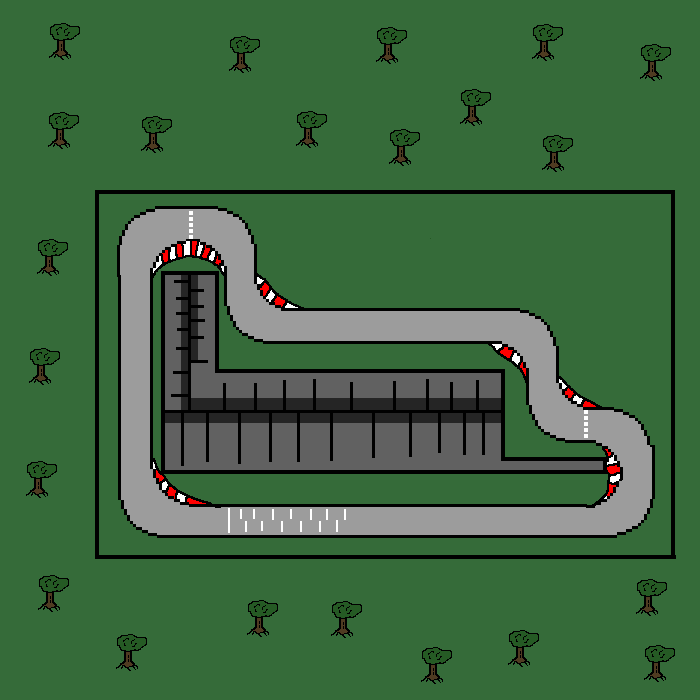
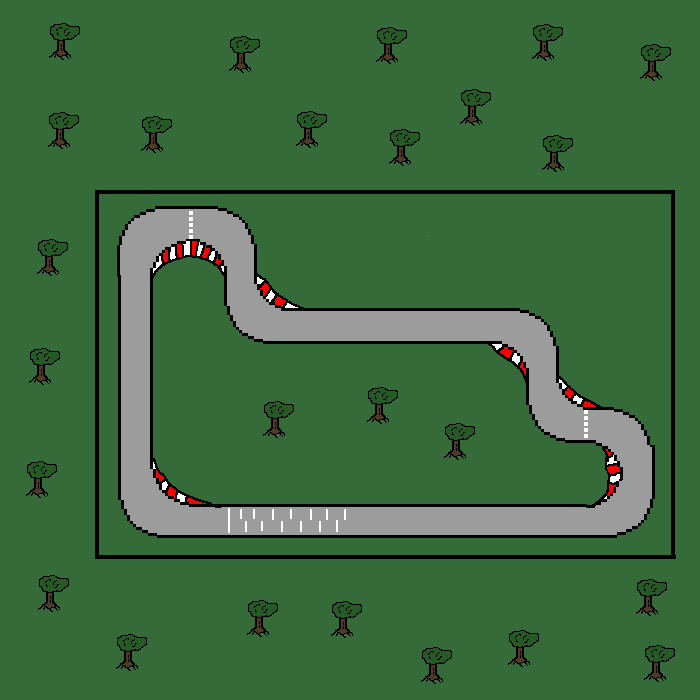
Track_update
-nowy wygląd torów
-2 tor jest już grywalny dla 1 gracza
- start pracy nad dodaniem multi

Changed region(s): [[0.21, 0.39, 0.87, 0.69]]

diff --git a/tor_two_one.py b/tor_two_one.py
@@ -53,14 +53,14 @@ class Tor_two_one(object):
         if self.p_pos.x <= 387:
             self.p_pos.x = 388
 
-        if self.p_pos.y >= 536:
-            self.p_pos.y = 535
+        if self.p_pos.y >= 651:
+            self.p_pos.y = 651
 
         if self.p_pos.y <= 194:
             self.p_pos.y = 195
 
-        if self.p_v == Vector2(0,10):
-            self.p_v = Vector2(0,9.9)
+        if self.p_v == Vector2(0, 10):
+            self.p_v = Vector2(0, 9.9)
         else:
             self.p_v += self.p_a
         self.p_pos += self.p_v
@@ -98,38 +98,31 @@ class Tor_two_one(object):
             self.play = pygame.image.load('bolid_red_up_left.png')
 
         #przeszkody
-        self.blok_1 = pygame.Rect(432, 255, 70, 100)
-        self.blok_2 = pygame.Rect(432, 350, 350, 100)
-        self.blok_3 = pygame.Rect(790, 450, 98, 5)
-
-        self.grass_1 = pygame.Rect(528, 160, 500, 100)
-        self.grass_2 = pygame.Rect(578, 260, 500, 40)
-        self.grass_3 = pygame.Rect(830, 310, 200, 50)
+        self.grass_1 = pygame.Rect(526, 160, 90, 100)
+        self.grass_2 = pygame.Rect(550, 260, 50, 40)
+        self.grass_3 = pygame.Rect(830, 194, 200, 161)
         self.grass_4 = pygame.Rect(870, 358, 200, 30)
         self.grass_5 = pygame.Rect(924, 384, 200, 500)
-        self.grass_6 = pygame.Rect(387, 517, 1000, 500)
+        self.grass_6 = pygame.Rect(387, 517, 364, 500)
         self.grass_7 = pygame.Rect(387, 194, 11, 1000)
-        self.grass_8 = pygame.Rect(501, 325, 270, 167)
-        self.grass_9 = pygame.Rect(422, 264, 50, 200)
+        self.grass_8 = pygame.Rect(484, 325, 270, 167)
+        self.grass_9 = pygame.Rect(422, 264, 80, 200)
         self.grass_10 = pygame.Rect(784, 362, 20, 70)
+        self.grass_11 = pygame.Rect(640, 251, 162, 140)
+        self.grass_12 = pygame.Rect(823, 422, 63, 170)
+        self.grass_13 = pygame.Rect(746, 555, 53, 96)
 
         #kolizje
-        if self.blok_1.collidepoint((self.p_pos.x, self.p_pos.y)) or self.blok_2.collidepoint((self.p_pos.x, self.p_pos.y)) or self.blok_3.collidepoint((self.p_pos.x, self.p_pos.y)):
-            pygame.mixer.music.load('UI_Quirky33.mp3')
-            pygame.mixer.music.play()
-            self.p_pos = Vector2(550, 500)
-            self.check = 0
-            self.minutes = 0
-            self.seconds = 0
-            self.milliseconds = 0
-
-        if self.grass_1.collidepoint((self.p_pos.x, self.p_pos.y)) or self.grass_2.collidepoint((self.p_pos.x, self.p_pos.y)) or self.grass_3.collidepoint((self.p_pos.x, self.p_pos.y)) or self.grass_4.collidepoint((self.p_pos.x, self.p_pos.y)) or self.grass_5.collidepoint((self.p_pos.x, self.p_pos.y)) or self.grass_6.collidepoint((self.p_pos.x, self.p_pos.y)) or self.grass_7.collidepoint((self.p_pos.x, self.p_pos.y)) or self.grass_8.collidepoint((self.p_pos.x, self.p_pos.y)) or self.grass_9.collidepoint((self.p_pos.x, self.p_pos.y)) or self.grass_10.collidepoint((self.p_pos.x, self.p_pos.y)):
+        if self.grass_1.collidepoint((self.p_pos.x, self.p_pos.y)) or self.grass_2.collidepoint((self.p_pos.x, self.p_pos.y)) or self.grass_3.collidepoint((self.p_pos.x, self.p_pos.y)) or self.grass_4.collidepoint((self.p_pos.x, self.p_pos.y)) or self.grass_5.collidepoint((self.p_pos.x, self.p_pos.y)) or self.grass_6.collidepoint((self.p_pos.x, self.p_pos.y)) or self.grass_7.collidepoint((self.p_pos.x, self.p_pos.y)) or self.grass_8.collidepoint((self.p_pos.x, self.p_pos.y)) or self.grass_9.collidepoint((self.p_pos.x, self.p_pos.y)) or self.grass_10.collidepoint((self.p_pos.x, self.p_pos.y)) or self.grass_11.collidepoint((self.p_pos.x, self.p_pos.y)) or self.grass_12.collidepoint((self.p_pos.x, self.p_pos.y)) or self.grass_13.collidepoint((self.p_pos.x, self.p_pos.y)):
             self.p_a *= 0.1
 
         #mierzenie czasu i punkty
         self.stop = pygame.Rect(518, 490, 1, 150)
-        self.check_1 = pygame.Rect(450, 195, 1, 100)
-        self.check_2 = pygame.Rect(850, 395, 1, 100)
+        self.check_1 = pygame.Rect(454, 197, 1, 50)
+        self.check_2 = pygame.Rect(616, 277, 50, 1)
+        self.check_3 = pygame.Rect(724, 194, 1, 50)
+        self.check_4 = pygame.Rect(850, 387, 1, 50)
+        self.check_5 = pygame.Rect(873, 621, 1, 50)
 
         #checkpoints
         if self.check_1.collidepoint((self.p_pos.x, self.p_pos.y)) and self.check < 1:
@@ -144,8 +137,26 @@ class Tor_two_one(object):
             pygame.mixer.music.load('UI_Quirky1.mp3')
             pygame.mixer.music.play()
 
+        if self.check_3.collidepoint((self.p_pos.x, self.p_pos.y)) and self.check == 2:
+            self.check += 1
+            print(self.check)
+            pygame.mixer.music.load('UI_Quirky1.mp3')
+            pygame.mixer.music.play()
+
+        if self.check_4.collidepoint((self.p_pos.x, self.p_pos.y)) and self.check == 3:
+            self.check += 1
+            print(self.check)
+            pygame.mixer.music.load('UI_Quirky1.mp3')
+            pygame.mixer.music.play()
+
+        if self.check_5.collidepoint((self.p_pos.x, self.p_pos.y)) and self.check == 4:
+            self.check += 1
+            print(self.check)
+            pygame.mixer.music.load('UI_Quirky1.mp3')
+            pygame.mixer.music.play()
+
         #linia mety
-        if self.check >= 2 and self.stop.collidepoint((self.p_pos.x, self.p_pos.y)):
+        if self.check >= 5 and self.stop.collidepoint((self.p_pos.x, self.p_pos.y)):
             pygame.mixer.music.load('UI_Quirky1.mp3')
             pygame.mixer.music.play()
             self.last_minutes = self.minutes

diff --git a/player.py b/player.py
@@ -100,10 +100,6 @@ class Player(object):
             self.play = pygame.image.load('bolid_red_up_left.png')
 
         #przeszkody
-        self.blok_1 = pygame.Rect(432, 255, 70, 100)
-        self.blok_2 = pygame.Rect(432, 350, 350, 100)
-        self.blok_3 = pygame.Rect(790, 450, 98, 5)
-
         self.grass_1 = pygame.Rect(528, 160, 500, 100)
         self.grass_2 = pygame.Rect(578, 260, 500, 40)
         self.grass_3 = pygame.Rect(830, 310, 200, 50)
@@ -111,19 +107,9 @@ class Player(object):
         self.grass_5 = pygame.Rect(924, 384, 200, 500)
         self.grass_6 = pygame.Rect(387, 517, 1000, 500)
         self.grass_7 = pygame.Rect(387, 194, 11, 1000)
-        self.grass_8 = pygame.Rect(501, 325, 270, 167)
-        self.grass_9 = pygame.Rect(422, 264, 50, 200)
+        self.grass_8 = pygame.Rect(484, 325, 270, 167)
+        self.grass_9 = pygame.Rect(422, 264, 80, 200)
         self.grass_10 = pygame.Rect(784, 362, 20, 70)
-
-        #kolizje
-        if self.blok_1.collidepoint((self.p_pos.x, self.p_pos.y)) or self.blok_2.collidepoint((self.p_pos.x, self.p_pos.y)) or self.blok_3.collidepoint((self.p_pos.x, self.p_pos.y)):
-            pygame.mixer.music.load('UI_Quirky33.mp3')
-            pygame.mixer.music.play()
-            self.p_pos = Vector2(550, 500)
-            self.check = 0
-            self.minutes = 0
-            self.seconds = 0
-            self.milliseconds = 0
 
         if self.grass_1.collidepoint((self.p_pos.x, self.p_pos.y)) or self.grass_2.collidepoint((self.p_pos.x, self.p_pos.y)) or self.grass_3.collidepoint((self.p_pos.x, self.p_pos.y)) or self.grass_4.collidepoint((self.p_pos.x, self.p_pos.y)) or self.grass_5.collidepoint((self.p_pos.x, self.p_pos.y)) or self.grass_6.collidepoint((self.p_pos.x, self.p_pos.y)) or self.grass_7.collidepoint((self.p_pos.x, self.p_pos.y)) or self.grass_8.collidepoint((self.p_pos.x, self.p_pos.y)) or self.grass_9.collidepoint((self.p_pos.x, self.p_pos.y)) or self.grass_10.collidepoint((self.p_pos.x, self.p_pos.y)):
             self.p_a *= 0.1
